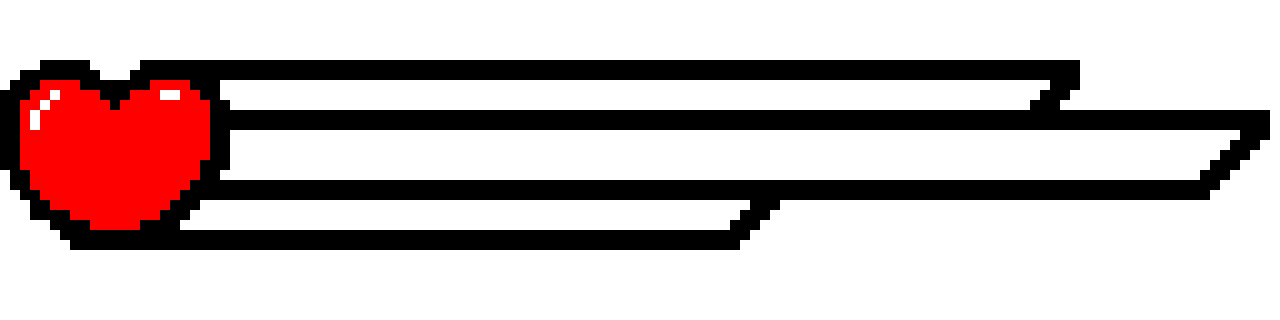
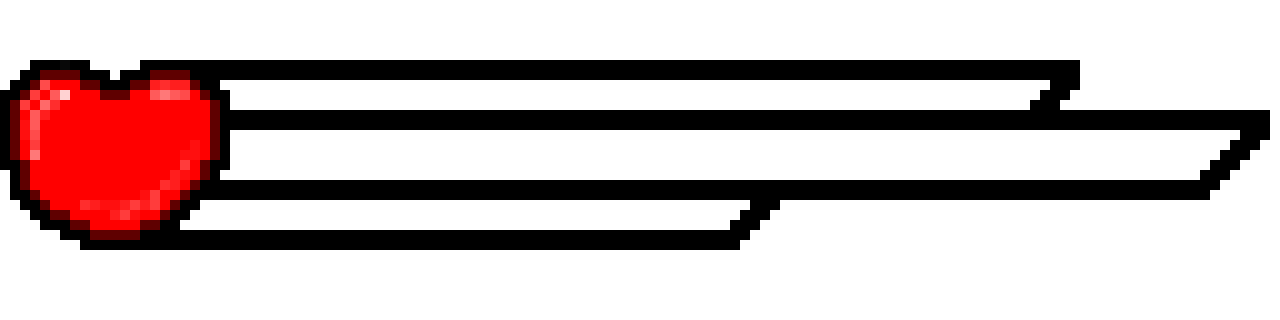
Cracking Player Heart

Changed region(s): [[0.0, 0.2188, 0.1875, 0.75], [0.0312, 0.75, 0.0625, 0.7812], [0.0, 0.1875, 0.0312, 0.2188]]

diff --git a/index.html b/index.html
@@ -67,7 +67,14 @@
                     style="width: 20px; height: 20px; display: inline-block; transform: translateY(4px);">
                 <span x-text="`${evasion * 100}%`"></span>
             </div>
-            <img src="assets/playerbar.png">
+            <img :src="
+            health / maxHealth >= 0.8 ? 'assets/playerbar.png'
+            : health / maxHealth >= 0.6 ? 'assets/playerbarcracked1.png'
+            : health / maxHealth >= 0.4 ? 'assets/playerbarcracked2.png'
+            : health / maxHealth >= 0.2 ? 'assets/playerbarcracked3.png'
+            : health / maxHealth > 0 ? 'assets/playerbarcracked4.png'
+            : 'assets/playerbarcrackeddead.png'
+            ">
             <div class="pstatus-effects">
                 <img x-show="pstatuses.includes('🩸')" src="assets/effects/Bleed.png" alt="Crit Icon">
                 <img x-show="pstatuses.includes('👁')" src="assets/effects/Blindness.png" alt="Crit Icon">
@@ -247,8 +254,7 @@
                         : enemy.name == 'Goblin King' ? 'assets/enemy_hearts/GoblinKing.png'
                         : enemy.name == 'Demon Queen' ? 'assets/enemy_hearts/DemonQueen.png'
                         : 'assets/enemy_hearts/Basic.png'
-                        "
-                            style="width: 80px; top: 70%; left: 1%; z-index: 3;">
+                        " style="width: 80px; top: 70%; left: 1%; z-index: 3;">
                         <div class="enemy-health-bar-stats" x-text="`${health}/${maxHealth}`">0/0</div>
                         <div class="enemy-health-bar" id="enemy-health"></div>
                         <div class="enemy-health-bar-background"></div>
@@ -262,7 +268,7 @@
                             <button class="battle-base-attack"
                                 style="background-color: rgb(253, 113, 113); color: black; border: 5px solid rgb(245, 17, 17); font-size: 40px; font-family: 'Pixelify Sans', sans-serif; cursor: pointer;"
                                 x-text="assets.items.find(item => item.name == Alpine.$data(player).weaponry).skills[0].name"
-                                @click="" x-transition.opacity>Attack</button>
+                                @click="Alpine.$data(player).health -= 51; updateBars()" x-transition.opacity>Attack</button>
                             <button class="battle-pass"
                                 style="background-color: rgb(42, 143, 201); border: 5px solid rgb(6, 0, 88); font-size: 40px;font-family: 'Pixelify Sans', sans-serif; cursor: pointer;"
                                 @click="" x-transition.opacity>Pass</button>

diff --git a/script.js b/script.js
@@ -94,8 +94,8 @@ async function updateBars() {
     const alpinePlayerData = Alpine.$data(document.getElementById(`player`));
     const alpineEnemyData = Alpine.$data(document.getElementById(`enemy`));
 
-    document.getElementById(`health`).style.width = `${Math.floor((alpinePlayerData.health / alpinePlayerData.maxHealth) * 560)}px`;
-    document.getElementById(`stamina`).style.width = `${Math.floor((alpinePlayerData.stamina / alpinePlayerData.maxStamina) * 310)}px`;
-    document.getElementById(`experience`).style.width = `${Math.floor((alpinePlayerData.experience / Math.floor((alpinePlayerData.level / 0.07) ** 2)) * 450)}px`;
-    document.getElementById(`enemy-health`).style.width = `${Math.floor((alpineEnemyData.health / alpineEnemyData.maxHealth) * 80)}%`;
+    document.getElementById(`health`).style.width = `${Math.floor(((alpinePlayerData.health < 0 ? 0 : alpinePlayerData.health) / alpinePlayerData.maxHealth) * 560)}px`;
+    document.getElementById(`stamina`).style.width = `${Math.floor(((alpinePlayerData.stamina < 0 ? 0 : alpinePlayerData.stamina) / alpinePlayerData.maxStamina) * 310)}px`;
+    document.getElementById(`experience`).style.width = `${Math.floor(((alpinePlayerData.experience < 0 ? 0 : alpinePlayerData.experience) / Math.floor((alpinePlayerData.level / 0.07) ** 2)) * 450)}px`;
+    document.getElementById(`enemy-health`).style.width = `${Math.floor(((alpineEnemyData.health < 0 ? 0 : alpineEnemyData.health) / alpineEnemyData.maxHealth) * 80)}%`;
 }
